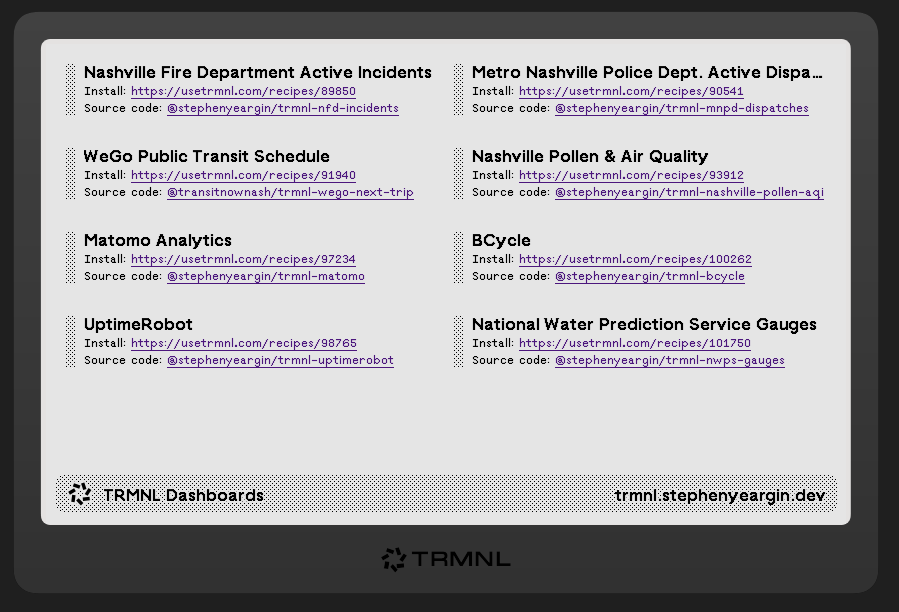
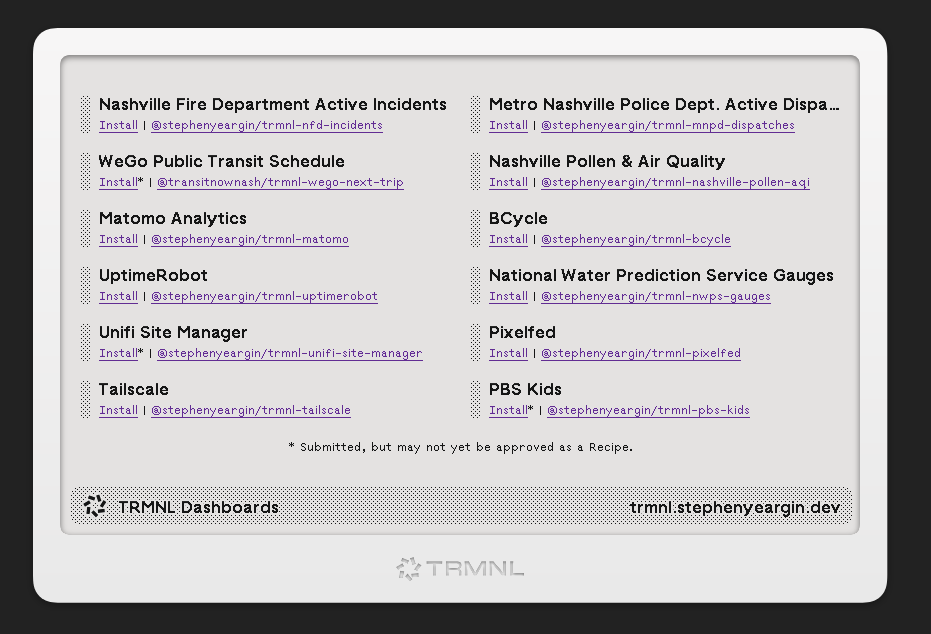
Update opengraph

Changed region(s): [[0.0, 0.0, 0.9967, 0.9624]]

diff --git a/README.md b/README.md
@@ -1,3 +1,5 @@
 # TRMNL Dashboards
 
 Original repository for my TRMNL dashboard plugins, now split into their own modules.
+
+![](docs/assets/opengraph.png)
